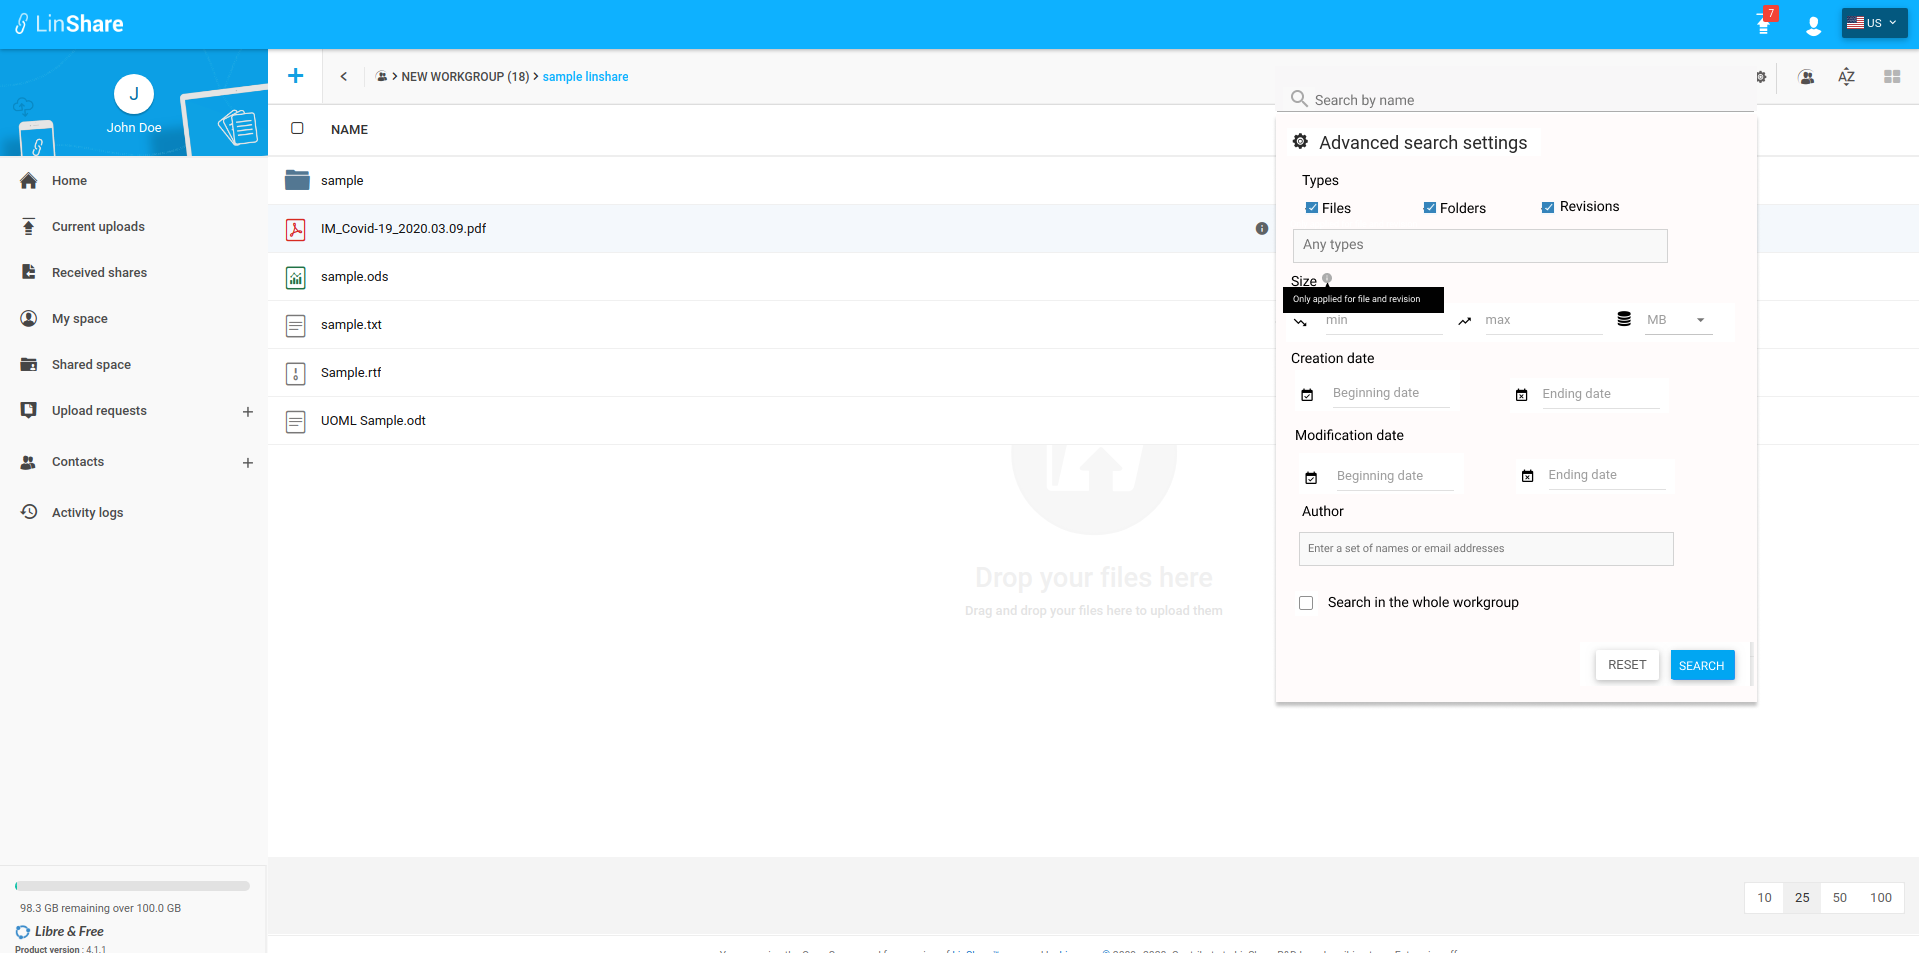
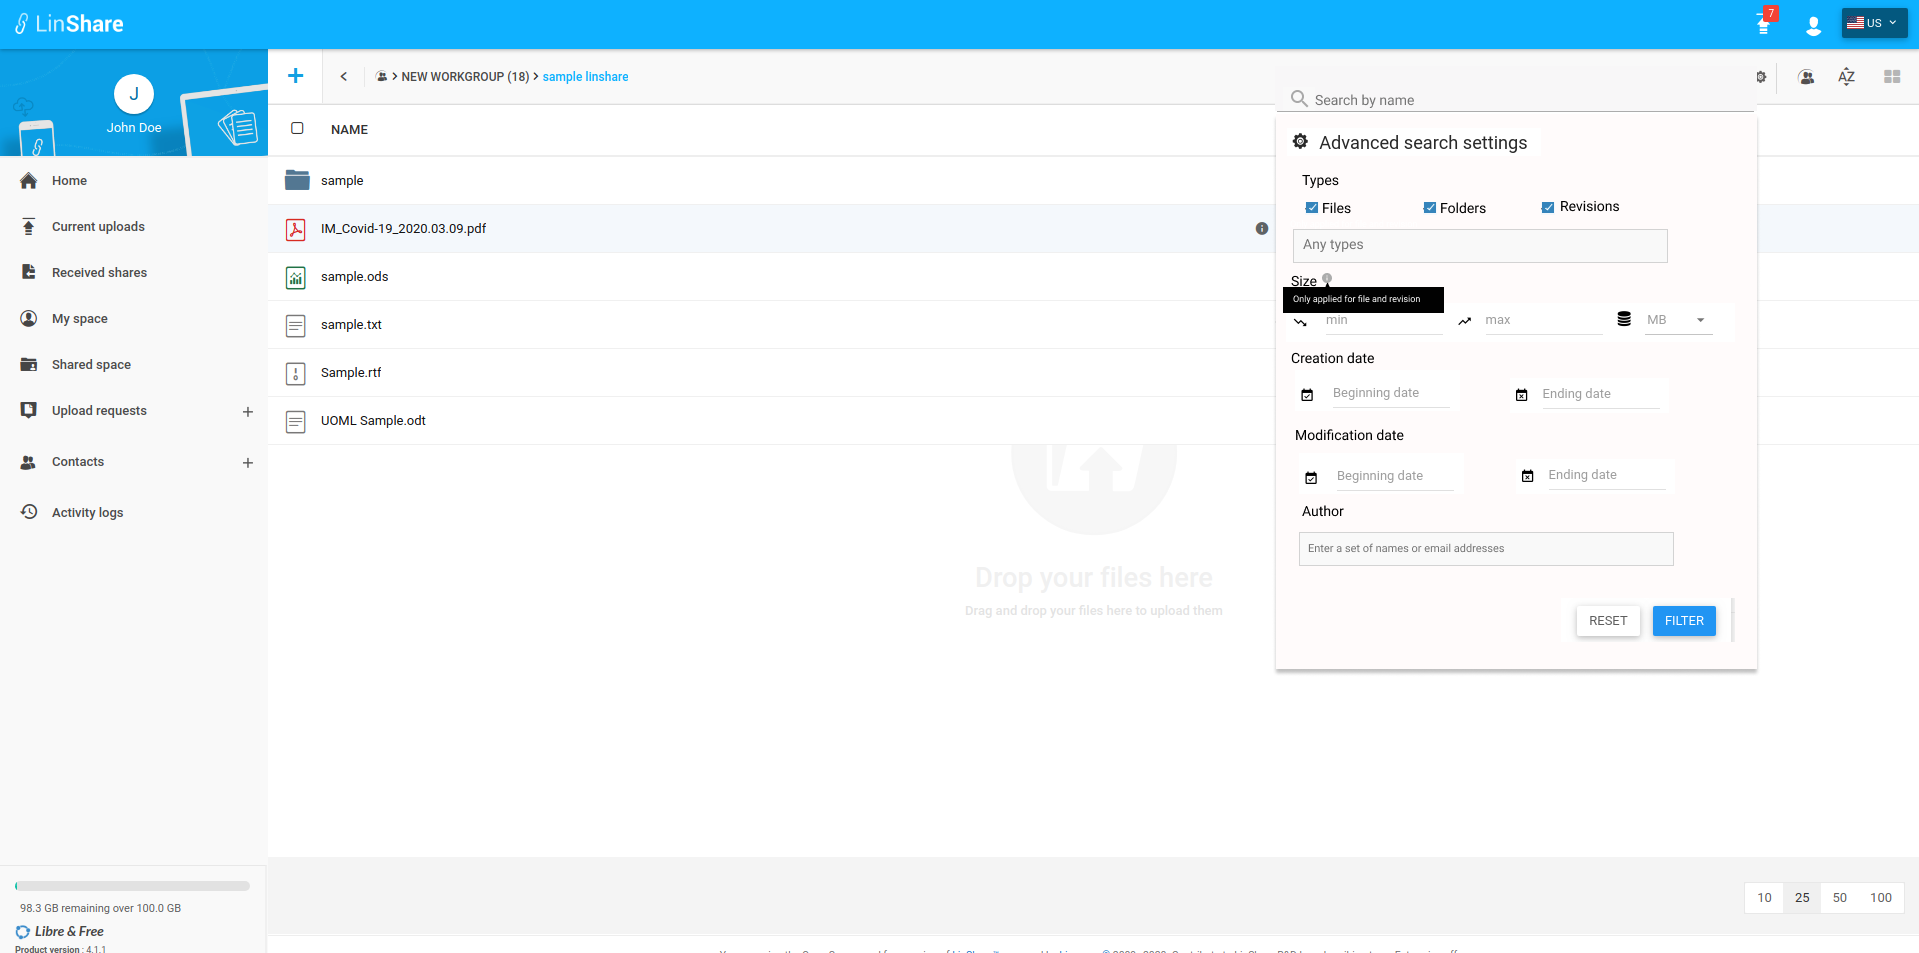
Update documentation/EN/epics/workgroups/mockups/3.2.png, documentation/EN/epics/workgroups/story-3-user-search-files-folders-by-name-inside-a-workgroup.md files

Changed region(s): [[0.6764, 0.6086, 0.9224, 0.7608], [0.6764, 0.6086, 0.7994, 0.639]]

diff --git a/documentation/EN/epics/workgroups/story-3-user-search-files-folders-by-name-inside-a-workgroup.md b/documentation/EN/epics/workgroups/story-3-user-search-files-folders-by-name-inside-a-workgroup.md
@@ -48,10 +48,8 @@
     - Creation date: I can custom creation date range
     - Modification date: I can custom modification date range
     - File/folder's Author: When i input some character of name or email, system will display a suggestion list that allow me to pick. I can input multiple owners in this field.
-    - A checkbox Seach in the whole workgroup: The checkbox is ticked by defautl.
-- After choosing search critetia, i input characters on the field " Search by name"
-- If the checkbox  Seach in the whole workgroup is not ticked, the system will only search file/folders inside current folder, including child folders of current folder. 
-- If the checkbox is ticked, the system will search files/folders inside the containing workgroup, including child folders of the workgroup. 
+- After choosing search critetia, i input characters on the field " Search by name" and click Enter 
+- The system will search file/folders inside current folder, including child folders of current folder and display result list.
 
 #### Postconditions
 
